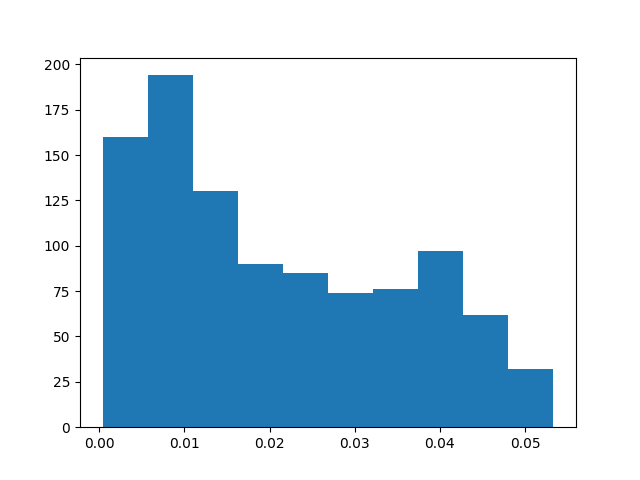
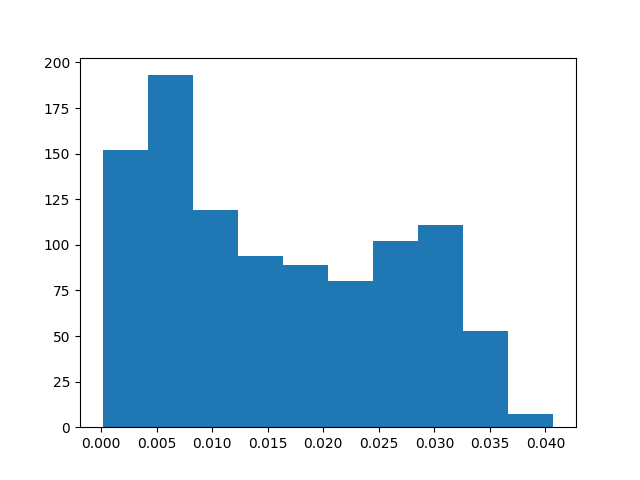
Added a minimum sim param, changed dist to cosine sim

diff --git a/indexing/faiss_utils.py b/indexing/faiss_utils.py
@@ -4,7 +4,7 @@ from utils import get_hypersphere_points, compute_distances_from_centroid
 from indexing.faiss_indexers import DenseFlatIndexer
 import numpy as np
 
-def distance_to_centroid_faiss(indexer : DenseFlatIndexer, query_points_amount = 1000, points_per_query = 100):
+def distance_to_centroid_faiss(indexer : DenseFlatIndexer, query_points_amount = 1000, points_per_query = 100, min_sim=0.2):
     """
     Computes the variance on distance to centroid of a faiss index.
     :param index: faiss index
@@ -22,16 +22,20 @@ def distance_to_centroid_faiss(indexer : DenseFlatIndexer, query_points_amount =
     pts = list()
     # lets assume for now that pts is grouped by query points, although i am not sure that this is the case lol
     for i in range(query_points_amount):
-        pts.append(list())
+        cluster_points = list()
+
         for idx in indexes[i]:
-            pts[i].append(indexer.copy_of_points[idx])
+            if np.dot(query_points[i],indexer.copy_of_points[idx]) > min_sim:
+                cluster_points.append(indexer.copy_of_points[idx])
+        if len(cluster_points) > 0:
+            pts.append(cluster_points)
     
     # pts is now a list of list of np.array, lets convert it a list of np.array
-    pts = [np.array(pts[i]) for i in range(query_points_amount)]
+    pts = [np.array(pts[i]) for i in range(len(pts))]
 
     # compute the distance to centroid for each of the points
-    distances = [compute_distances_from_centroid(pts[i]) for i in range(query_points_amount)]
+    distances = [compute_distances_from_centroid(pts[i]) for i in range(len(pts))]
     # compute the variance of each set of distances
-    variances = [np.var(distances[i]) for i in range(query_points_amount)]
+    variances = [np.var(distances[i]) for i in range(len(pts))]
 
     return np.array(variances)

diff --git a/utils.py b/utils.py
@@ -23,8 +23,8 @@ def compute_distances_from_centroid(data):
     """
     # compute centroid
     centroid = np.mean(data, axis=0)
-    # compute distances
-    return np.linalg.norm(data - centroid, axis=1)
+    # compute distances using cosine similarity
+    return 1 - np.dot(data, centroid) 
 
 def get_where_index(data, km, label_index):
     """
@@ -55,7 +55,7 @@ def get_splooch_points(set_size=1000, dim=512, splooches=10, scale_upper_bound=1
     """
     points_per_splooch = set_size // splooches
     splooch_list = list()
-    for i in range(splooches):
+    for _ in range(splooches):
         splooch = get_hypersphere_points(points_per_splooch, dim)
         random_direction = np.random.uniform(-1, 1, dim)
         random_scale = np.random.uniform(0, scale_upper_bound)

diff --git a/main.py b/main.py
@@ -12,6 +12,7 @@ def generate_data(data_points=1000, dim=512, rotation_count=1, generate_function
 
     # get a random rotation matrix
     R = [generate_a_random_rotation_matrix(dim) for _ in range(rotation_count)]
+    
     # apply the rotation matrix to the data
     rotated_data = [data]
     for _ in range(rotation_count):
